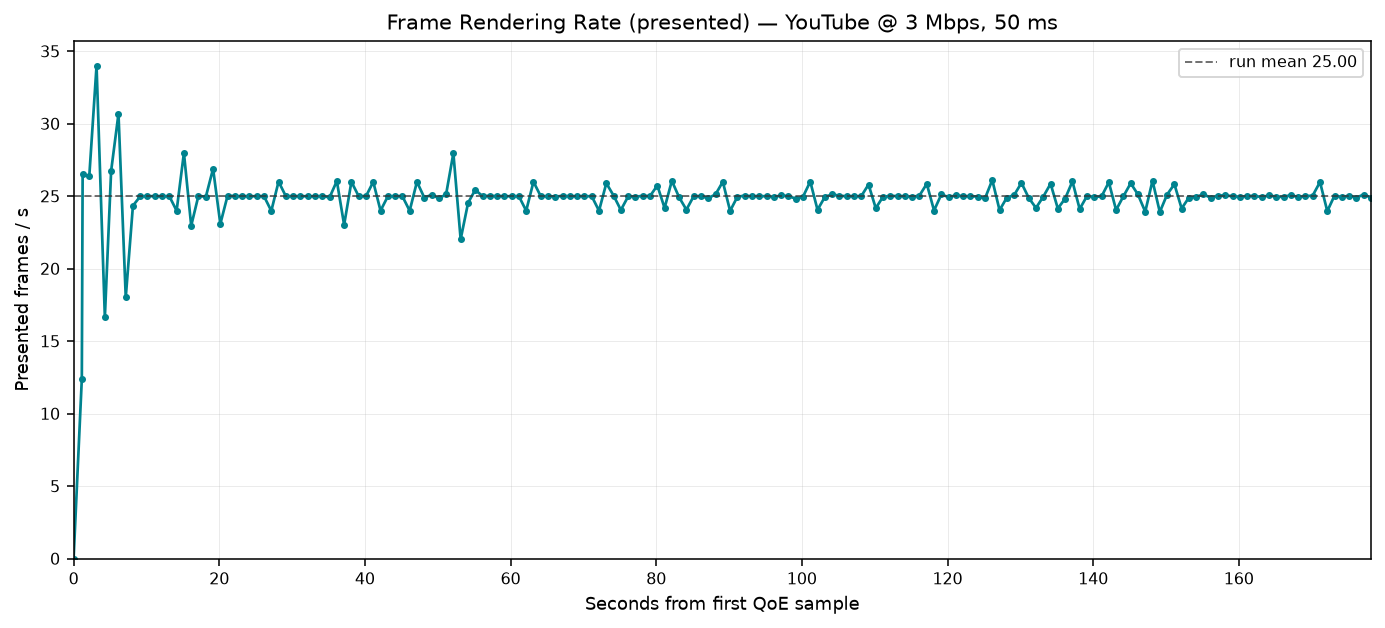
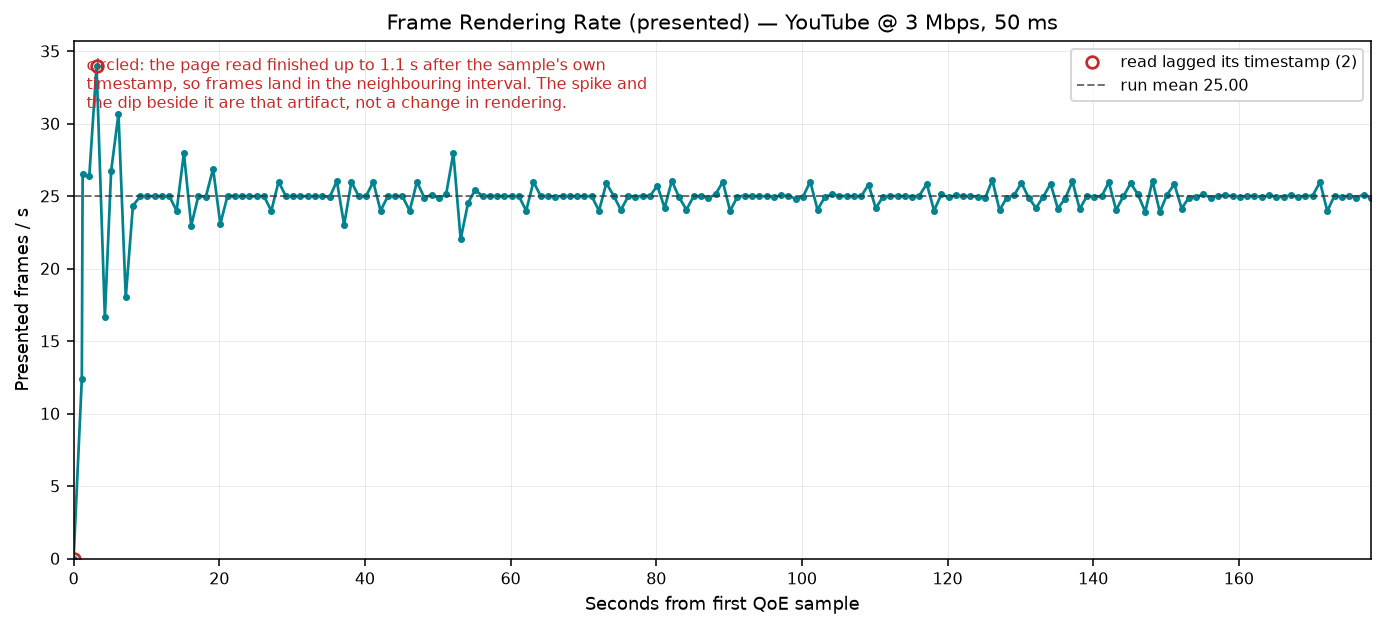
pramana: mark the fps samples whose page read lagged their own timestamp
The concurrent YouTube run shows 68.5 fps at 110 s and 3.0 fps at 112 s,
against a steady 22-27 either side. That is an artifact of how a sample
is built, not a change in rendering, and the chart now says so.

A sample records its timestamp, then reads the page. When that read runs
longer than the sampling interval, the frame counter it returns is from
up to 2 s after the timestamp the sample carries, so frames rendered
during the read are credited to the interval before the one they belong
to. The result is a spike on that sample and a dip on the next.

Measured on this run: sample 109 took 1967 ms inside its page read. Its
counter advanced 71 frames but was divided by the 1.007 s since the
previous sample, giving 68.46. The next sample then saw only 6 new
frames across the 2.000 s gap, giving 3.00. Taken together, samples 108
to 110 give 77 frames over 3.037 s = 25.35 fps, which matches the
neighbours and the run mean of 24.81. Nothing happened to the rendering.

fps.png now circles every sample whose iteration ran longer than the
interval and carries a note explaining the pairing. Only two runs in the
release have any such sample, so only their charts change; the other six
are byte-identical.

No data, no metric and no threshold is changed by this commit. The B1
bar stays at 2.0 s, and the B1 failure on the concurrent run stands.

Changed region(s): [[0.0621, 0.0908, 0.4657, 0.1815], [0.7762, 0.0605, 0.9935, 0.1815]]

diff --git a/experiments/pramana/make_release.py b/experiments/pramana/make_release.py
@@ -685,6 +685,43 @@ def build_run(run_dir: Path, out_root: Path, meta_env: dict, app: str | None = N
         "Presented frames / s",
     )
     ax.plot(relt, fps_series, color="#00838F", **LINE)
+    # A sample whose own iteration ran longer than the sampling interval has its
+    # timestamp taken before the page read and its frame counter after it, so
+    # frames rendered during that iteration are credited to the interval before
+    # the one they belong to. That shows up as a spike on this sample and a dip
+    # on the next. It is a pairing artifact: across the pair the rate is
+    # unchanged. Mark those samples rather than smooth them away.
+    interval_ms = float(u.get("sampling_interval_s") or 1.0) * 1000.0
+    skew = [
+        i
+        for i, r in enumerate(rows)
+        if (r.get("loop_ms") or {}).get("total_work") is not None
+        and r["loop_ms"]["total_work"] > interval_ms
+    ]
+    if skew:
+        ax.plot(
+            [relt[i] for i in skew],
+            [fps_series[i] for i in skew],
+            "o",
+            ms=6,
+            mfc="none",
+            mec="#C62828",
+            mew=1.4,
+            label="read lagged its timestamp (%d)" % len(skew),
+        )
+        worst = max(skew, key=lambda i: rows[i]["loop_ms"]["total_work"])
+        ax.text(
+            0.01,
+            0.97,
+            "circled: the page read finished up to %.1f s after the sample's own\n"
+            "timestamp, so frames land in the neighbouring interval. The spike and\n"
+            "the dip beside it are that artifact, not a change in rendering."
+            % (rows[worst]["loop_ms"]["total_work"] / 1000.0),
+            transform=ax.transAxes,
+            va="top",
+            fontsize=8,
+            color="#C62828",
+        )
     if u.get("rendered_fps"):
         ax.axhline(
             u["rendered_fps"],
@@ -694,6 +731,7 @@ def build_run(run_dir: Path, out_root: Path, meta_env: dict, app: str | None = N
             alpha=0.7,
             label="run mean %.2f" % u["rendered_fps"],
         )
+    if skew or u.get("rendered_fps"):
         ax.legend(fontsize=8)
     ax.set_ylim(bottom=0)
     ax.set_xlim(0, max(relt) if relt else 1)
